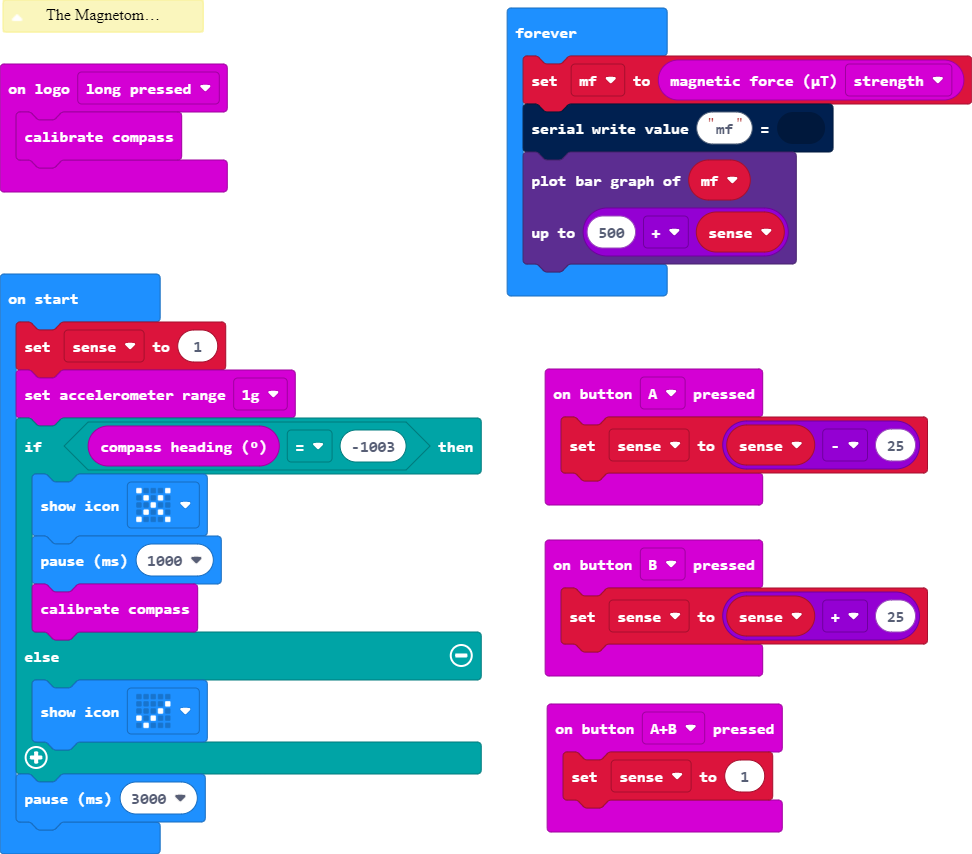
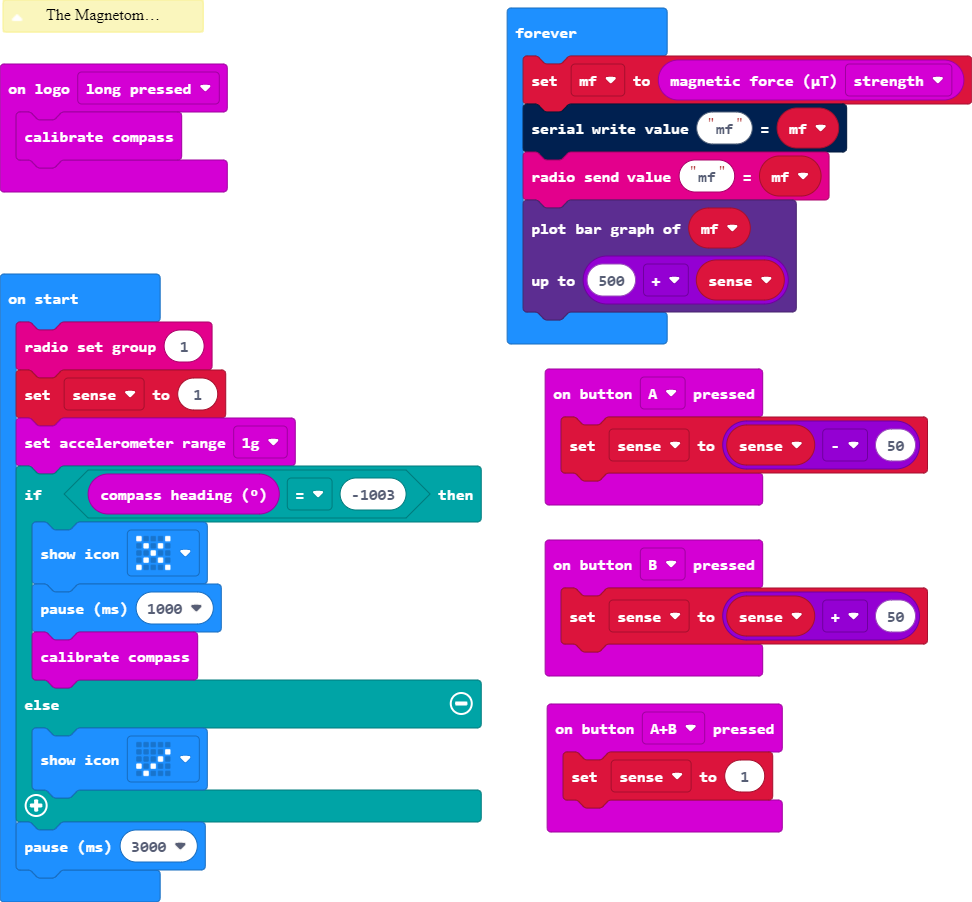
Update main.blocks, main.ts

diff --git a/main.ts b/main.ts
@@ -5,16 +5,17 @@ input.onLogoEvent(TouchButtonEvent.LongPressed, function () {
     input.calibrateCompass()
 })
 input.onButtonPressed(Button.A, function () {
-    sense = sense - 25
+    sense = sense - 50
 })
 input.onButtonPressed(Button.AB, function () {
     sense = 1
 })
 input.onButtonPressed(Button.B, function () {
-    sense = sense + 25
+    sense = sense + 50
 })
 let mf = 0
 let sense = 0
+radio.setGroup(1)
 sense = 1
 input.setAccelerometerRange(AcceleratorRange.OneG)
 if (input.compassHeading() == -1003) {
@@ -27,7 +28,8 @@ if (input.compassHeading() == -1003) {
 basic.pause(3000)
 basic.forever(function () {
     mf = input.magneticForce(Dimension.Strength)
-    serial.writeValue("mf", 0)
+    serial.writeValue("mf", mf)
+    radio.sendValue("mf", mf)
     led.plotBarGraph(
     mf,
     500 + sense
